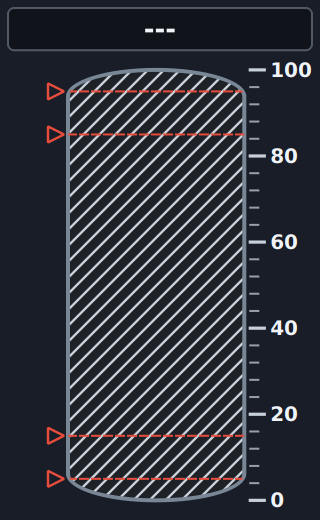
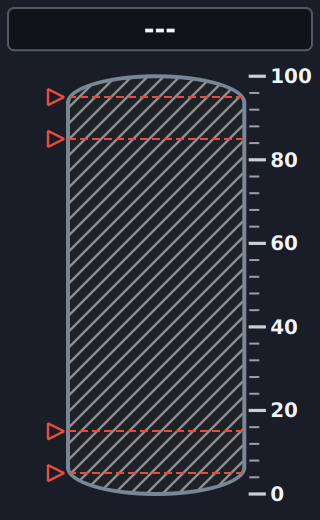
docs(tankdisplay): gallery images after the hatch, limit line and end room changes; CHANGELOG tests

Changed region(s): [[0.125, 0.1231, 1.0, 0.9846]]

diff --git a/CHANGELOG.md b/CHANGELOG.md
@@ -27,7 +27,7 @@ and this project adheres to [Semantic Versioning](https://semver.org/spec/v2.0.0
 
 ### Tests
 - **`IndustrialKnob` label measures** (#177): a counter of the ink measures, read through `internal::IndustrialKnobTestAccess`, shows that repaints, colours and values measure nothing, and that a new font or device pixel ratio measures the labels again. The private state of the knob moved to `src/internal/IndustrialKnob_p.h` for this; `IndustrialKnob.h` only gains a `friend` declaration, as `StripChart.h`.
-- **`TankDisplay`** (#152): `tst_TankDisplayLayout` (geometry without rendering: the outlines at their geometric points, the minimum size, non-finite input) and `tst_TankDisplay` (value and limit states, the accepted and rejected limit orders, the hysteresis, the fill height in pixels for each shape, the markers and tags, the hatch, the readout states and the 7 pt floor, texts inside the widget from the minimum size up, the screen change of #177). `tst_ReadoutContrast` covers its readout.
+- **`TankDisplay`** (#152): `tst_TankDisplayLayout` (geometry without rendering: the outlines at their geometric points, the minimum size, non-finite input) and `tst_TankDisplay` (value and limit states, the accepted and rejected limit orders, the hysteresis, the fill height in pixels for each shape, the markers and tags, the hatch, the readout states and the 7 pt floor, texts inside the widget from the minimum size up, the screen change of #177, no value before the first `setValue()`, every limit state in force visible including limits beyond the range, the warnings of the single limit setters, limit lines on whole device pixels, the hatch colour over the RGB cube). `tst_ReadoutContrast` covers its readout (4.5:1, text) and what is drawn on the empty inside (3:1, graphical objects: the fill, a limit line, the hatch), in both themes and with user vessel colours.
 - **Screen change of a visible `RadialGauge` and `CircularBargraph`** (#177), with the device pixel ratio and the logical DPI simulated through `metric()` (including the encoded metrics of Qt 6.8+): after one repaint, `minimumSizeHint()`, the minimum of the layout and the pixels are those of a new widget on that screen, and the layout is told once.
 
 ---
